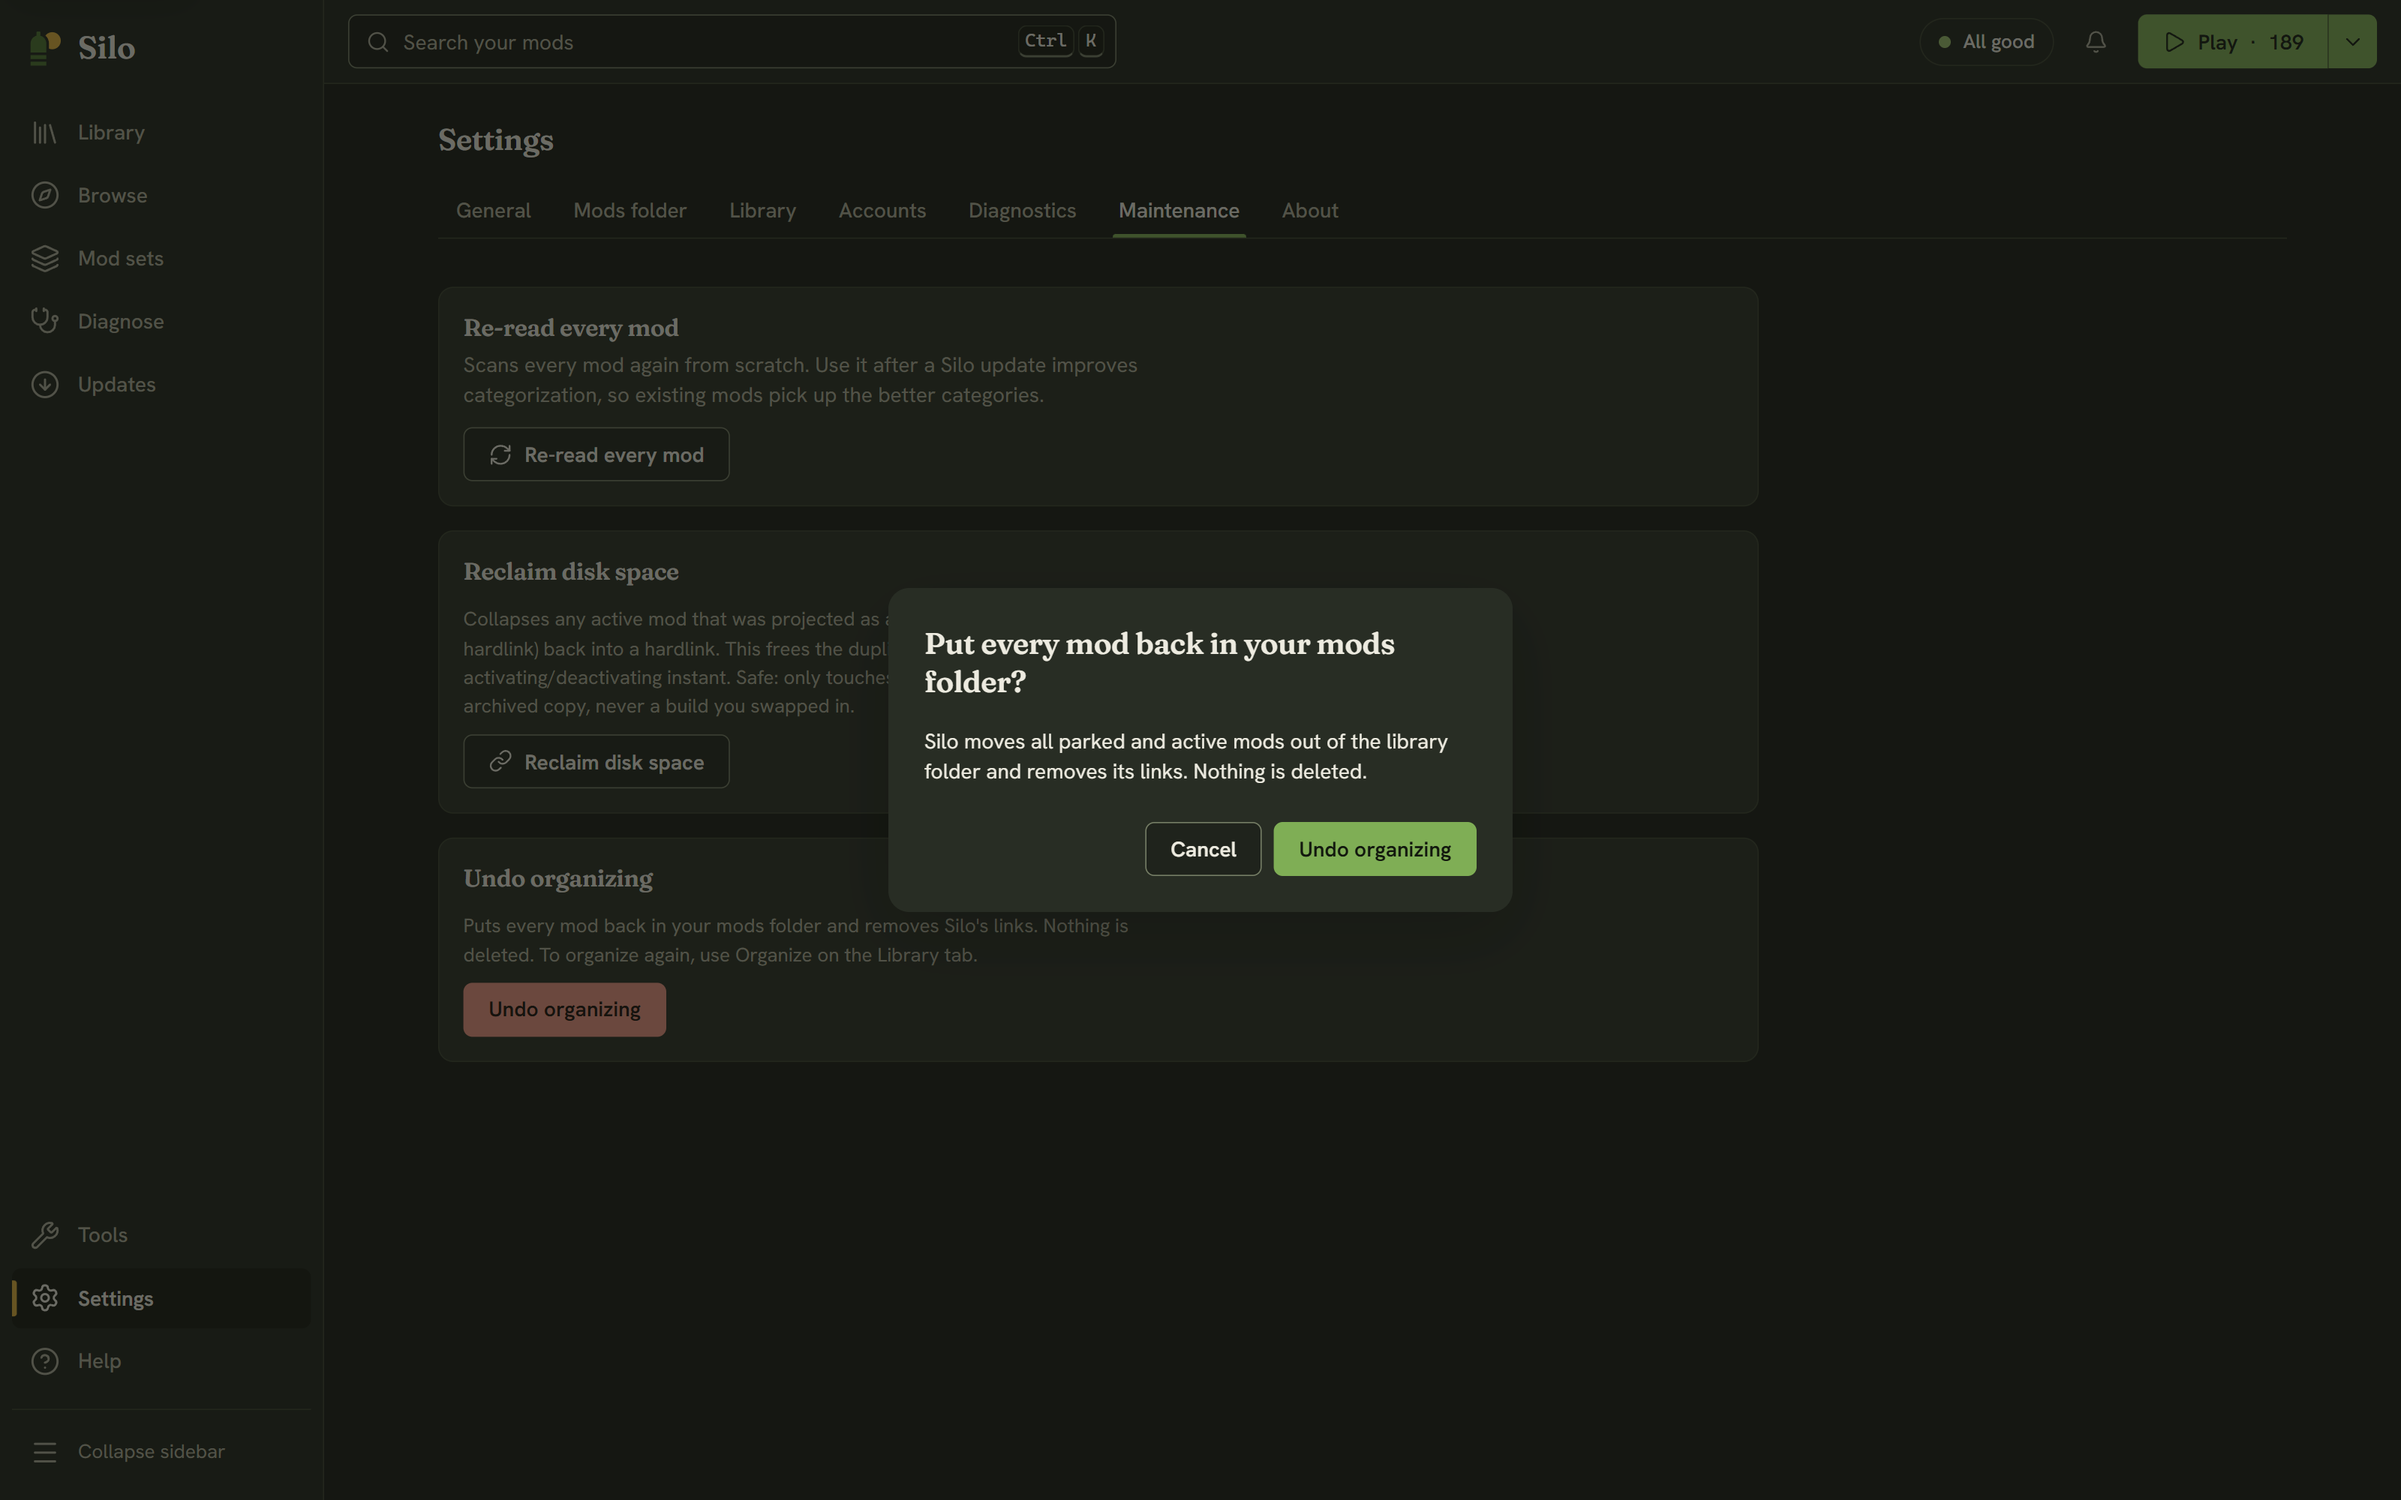
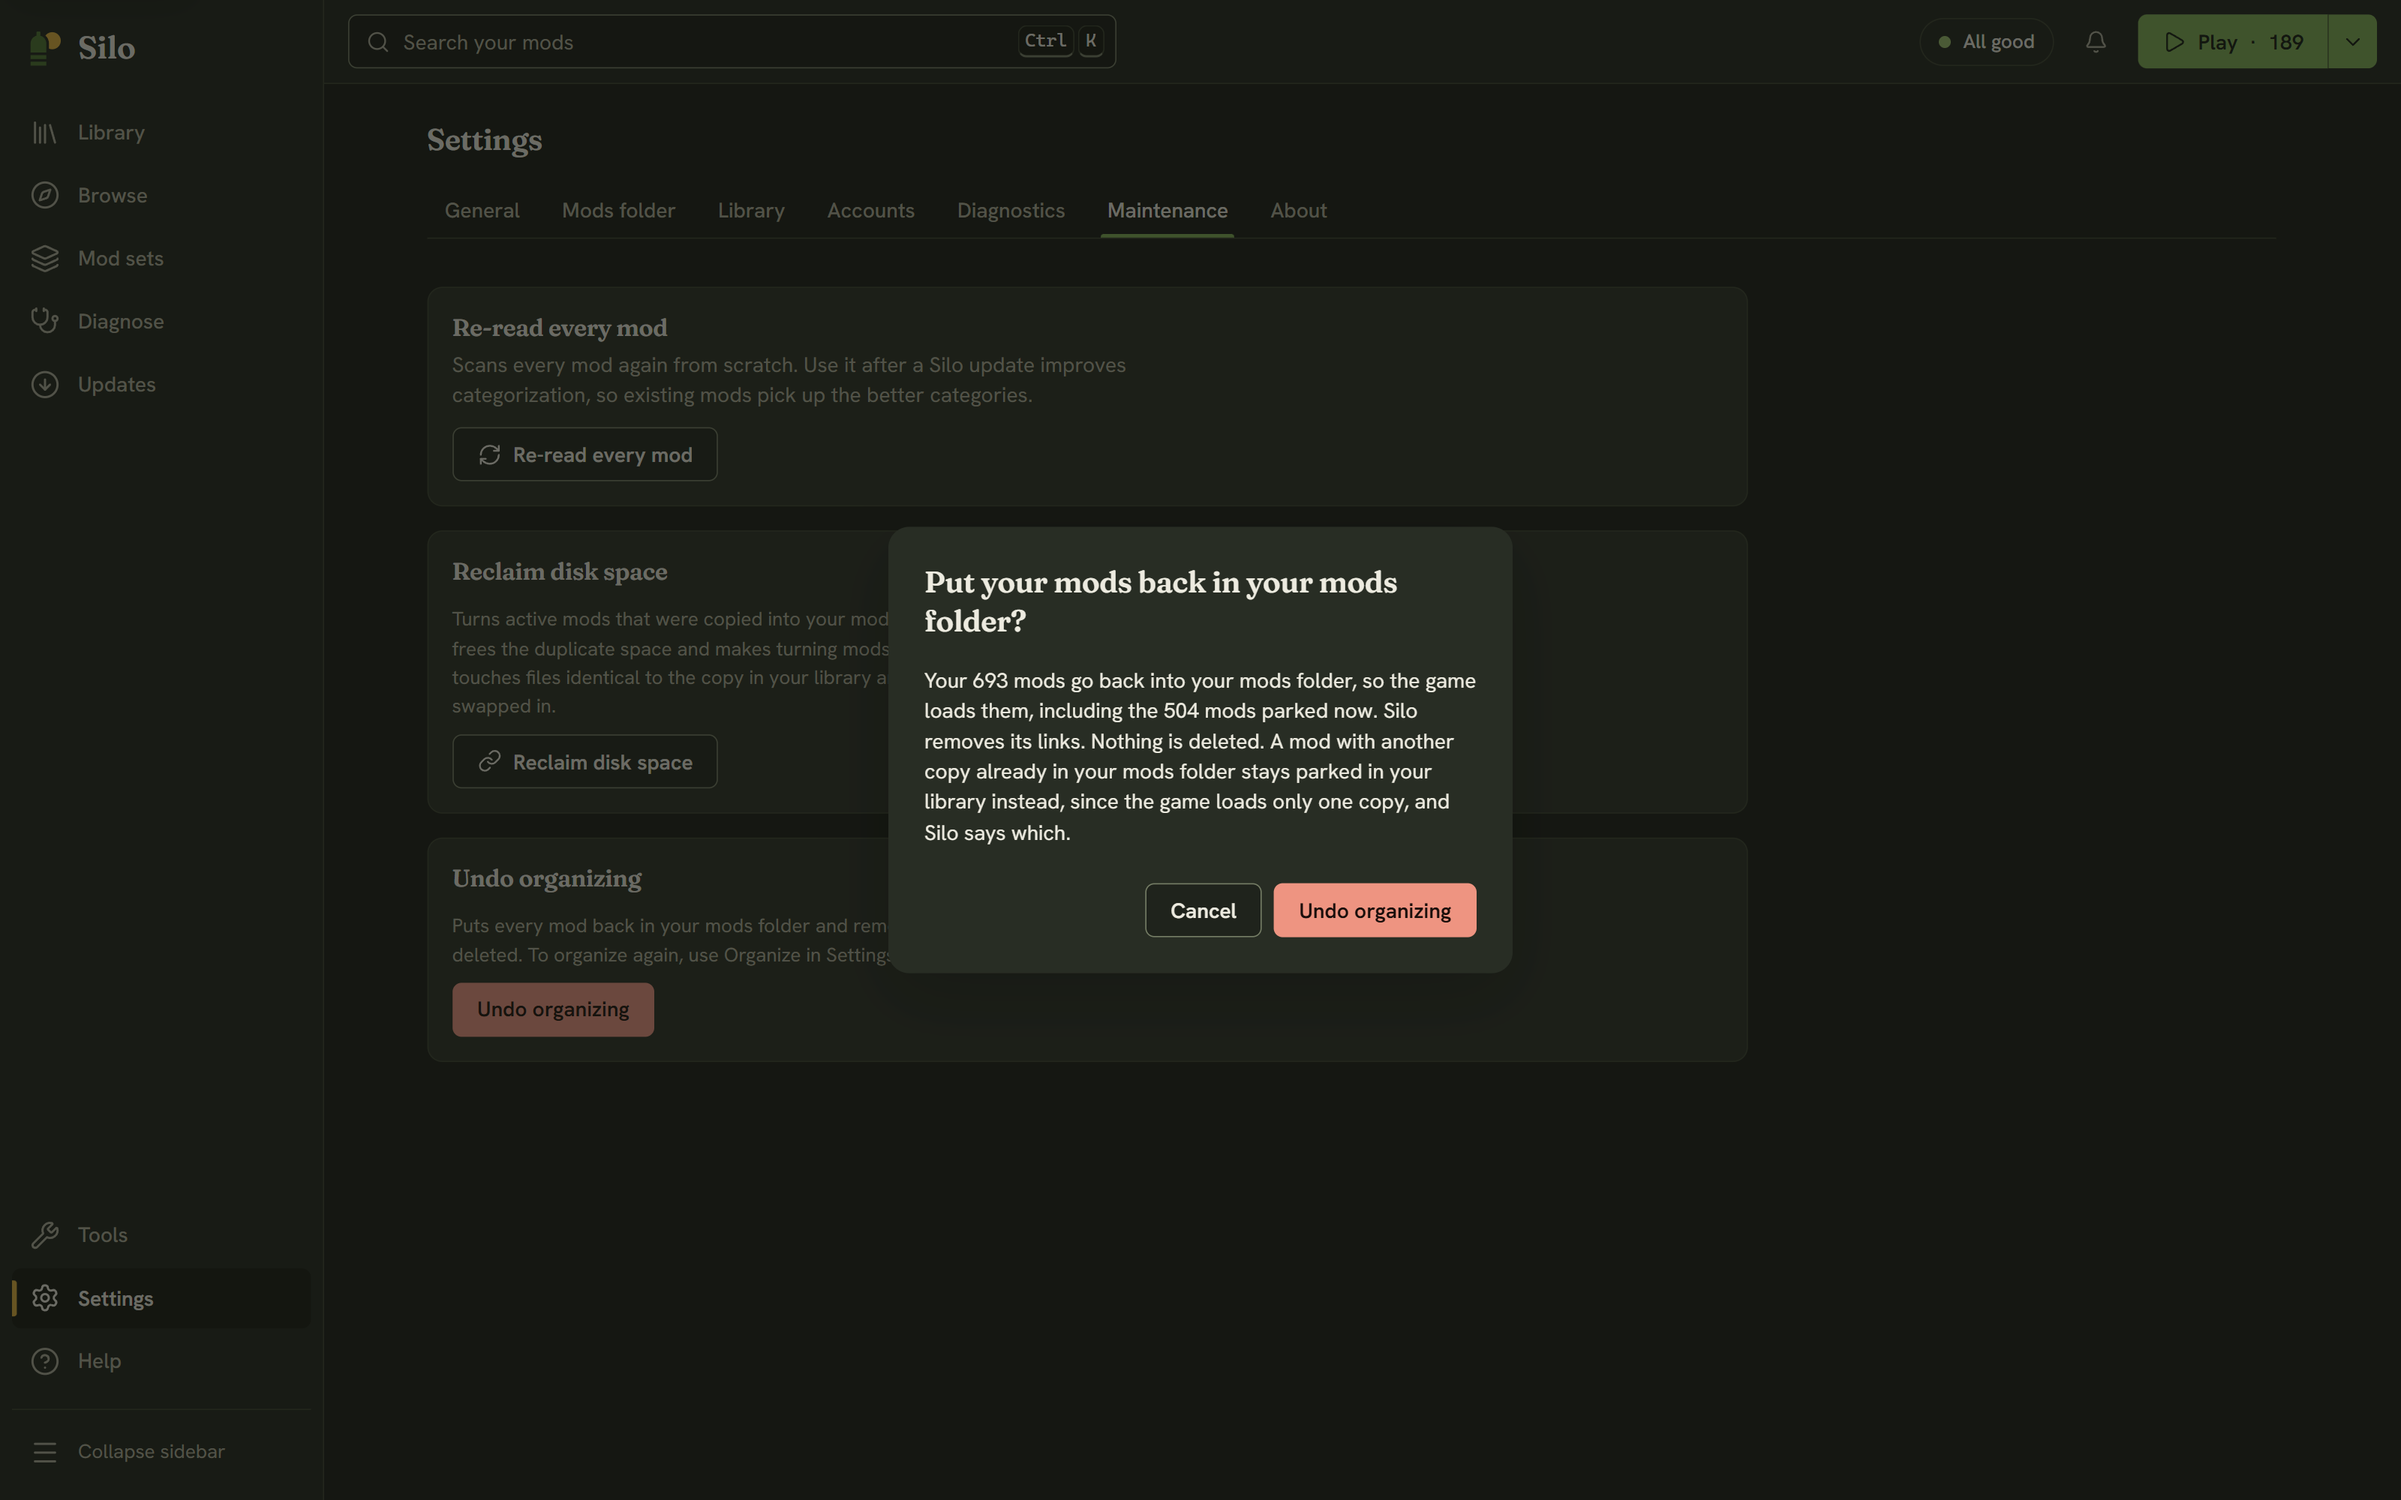
silo.hllmr.com Help: Undo organizing screenshot from Silo 1.0.5 (#51)
Replaces help-undo-organizing.png one for one with the Silo developer's
1.0.5 capture (showcase tool, fresh demo profile, 3200x2000, no metadata
chunks, same framing and fictional library). The dialog now reads "Put
your mods back in your mods folder?" with 1.0.5's body text, matching the
copy web#50 already shipped. Alt text updated on both pages that use it
and in screens.yaml (appVersion 1.0.5).

diff --git a/sites/silo/src/content/help/settings-accounts.md b/sites/silo/src/content/help/settings-accounts.md
@@ -54,7 +54,7 @@ A summary of your library, conflicts and health issues, plus Silo's recent log, 
 - **Reclaim disk space** turns any active mod that ended up as a full copy back into a link, freeing the duplicated space. It only touches files identical to the copy in your library, never a build you swapped in. On a cloud-synced folder it explains why copies are used instead.
 - **Undo organizing** puts every mod back in your mods folder, removes Silo's links and turns off **Auto-file new mods**. Nothing is deleted. It's the only undo for organizing (see [Undo organizing](/help/curation/#undo-organizing)).
 
-![Settings, Maintenance, with the Undo organizing confirmation](../../assets/screens/help-undo-organizing.png)
+![Settings, Maintenance: the Undo organizing confirmation, which puts your mods back in the mods folder and deletes nothing.](../../assets/screens/help-undo-organizing.png)
 
 ## About
 

diff --git a/sites/silo/src/content/help/curation.md b/sites/silo/src/content/help/curation.md
@@ -31,7 +31,7 @@ Click **File N mods** to go ahead, or **Cancel**. Progress shows at the bottom o
 
 A mod that already has another copy in your mods folder (an unzipped folder of it, say) stays parked in your library instead, because the game loads only one copy, and Silo says which copy is in the way. If **Auto-file new mods** is on, the question says it will be turned off, and Undo organizing turns it off, so the next scan doesn't file every mod straight back. To organize again, use **Organize**.
 
-![Settings, Maintenance, with the Undo organizing confirmation](../../assets/screens/help-undo-organizing.png)
+![Settings, Maintenance: the Undo organizing confirmation, which puts your mods back in the mods folder and deletes nothing.](../../assets/screens/help-undo-organizing.png)
 
 ## Favorite, hide and flag
 
